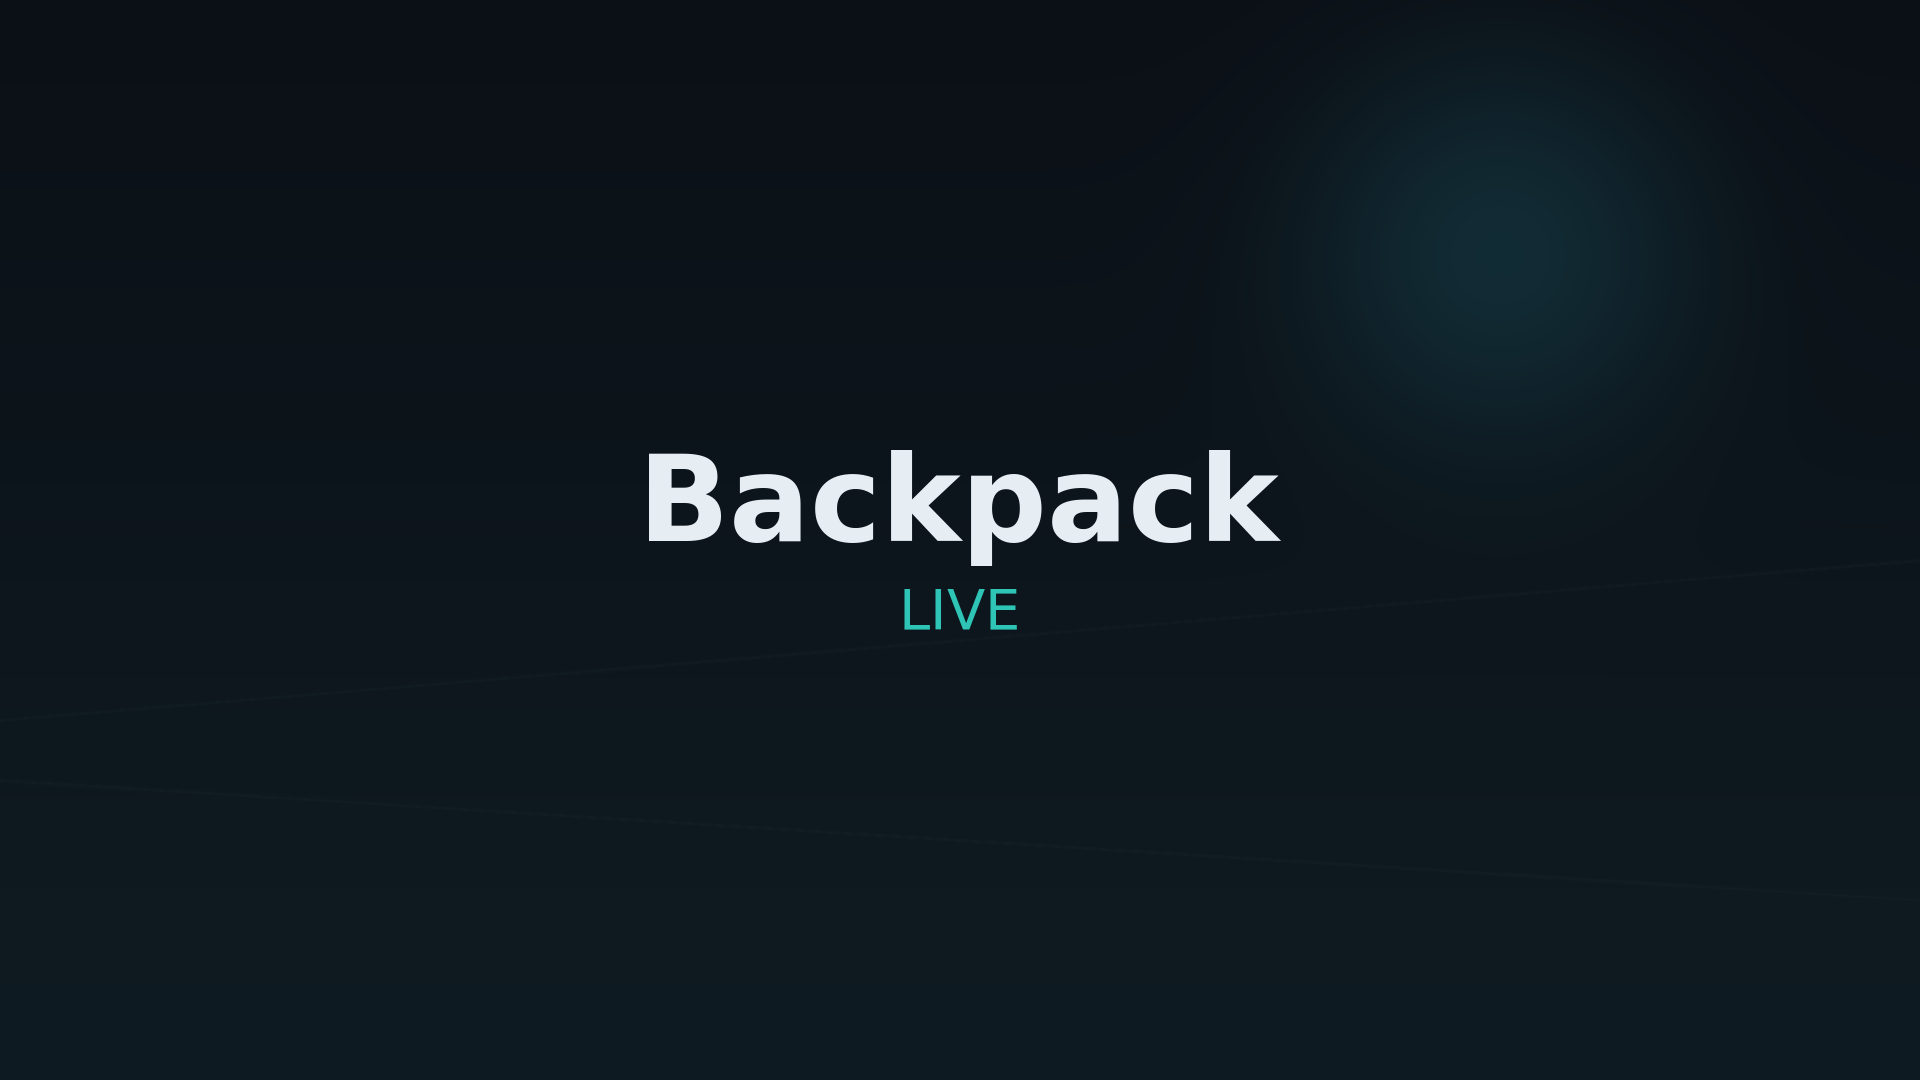
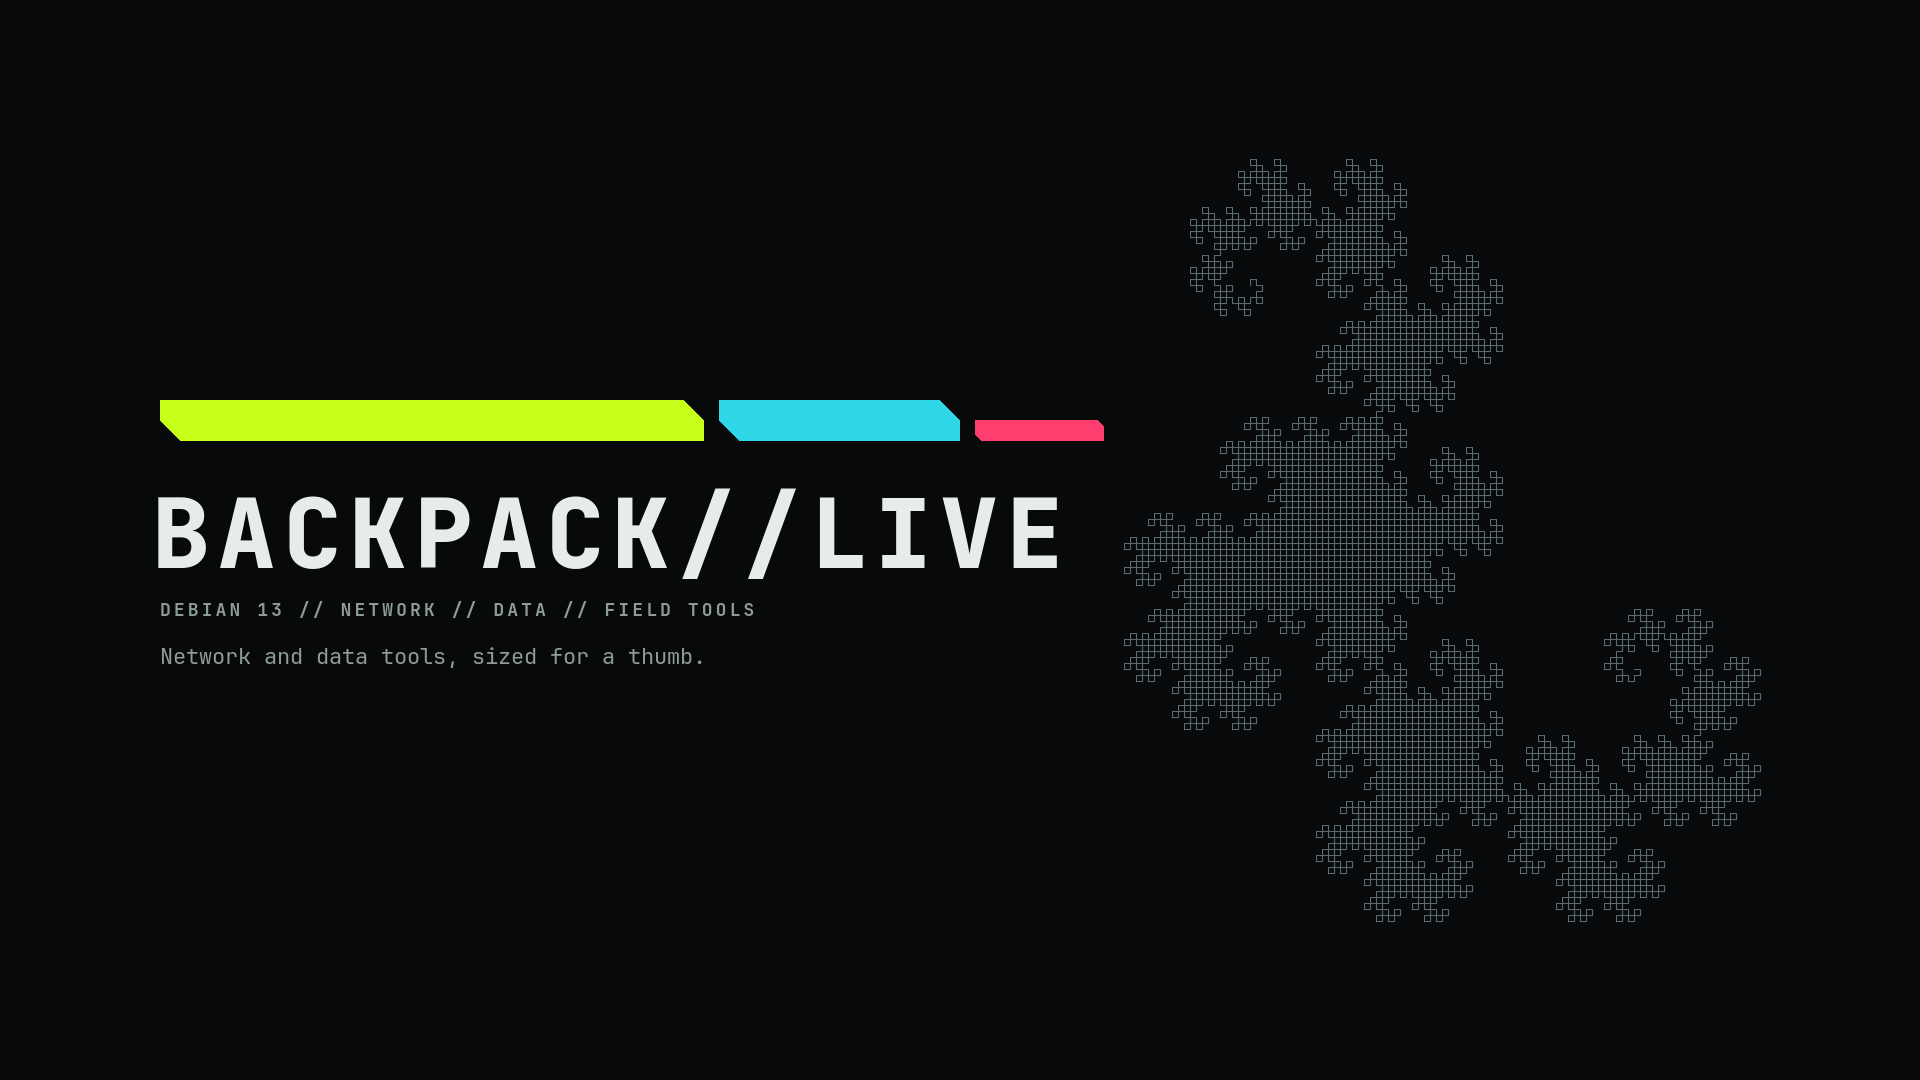
Branding: wallpaper, login background and plymouth splash in the Backpack Field Terminal look
JetBrains Mono wordmark, cover band, dragon-curve fractal; flat void plymouth background with
an acid copy-to-RAM bar. gen-branding.sh now writes into includes.chroot; the unused branding/
outputs are removed.

Claude-Session: https://claude.ai/code/session_01Pj1V7vx3cZ1TwCY66R4qUt

Changed region(s): [[0.0625, 0.0611, 0.9062, 0.8556]]

diff --git a/tools/assets/dragon.py b/tools/assets/dragon.py
@@ -1,0 +1,20 @@
+#!/usr/bin/env python3
+"""Print an ImageMagick MVG polyline of the Heighway dragon curve (the fractal on the
+chapter pages of Jurassic Park, the novel), used as the one decoration in Backpack Field
+Terminal artwork.  usage: dragon.py ITERATIONS STEP X Y  (X Y = top-left of the drawing)"""
+import sys
+
+it, step, ox, oy = (int(a) for a in sys.argv[1:5])
+turns = [1]
+for _ in range(it - 1):
+    turns = turns + [1] + [1 - t for t in reversed(turns)]
+x = y = 0
+dx, dy = 1, 0
+pts = [(0, 0), (1, 0)]
+x = 1
+for t in turns:
+    dx, dy = (-dy, dx) if t else (dy, -dx)
+    x, y = x + dx, y + dy
+    pts.append((x, y))
+mx, my = min(p[0] for p in pts), min(p[1] for p in pts)
+print("polyline " + " ".join(f"{ox + (px - mx) * step},{oy + (py - my) * step}" for px, py in pts))

diff --git a/CLAUDE.md b/CLAUDE.md
@@ -96,8 +96,9 @@ make release
     Hardware tablet taps via the monitor are flaky under nested virt; not a product defect —
     libinput enumerates the touch device under sway, so real touchscreens deliver events.
   * `scripts/qemu-shot.sh NAME` screendumps to build/shots/NAME.png.
-- (phase 5) Branding + splash: assets generated in branding/ by tools/assets/gen-branding.sh (ImageMagick via backpack-edex),
-  staged into includes.chroot (wallpaper -> /usr/share/backgrounds/backpack.png, greeter bg via
+- (phase 5) Branding + splash: tools/assets/gen-branding.sh (ImageMagick + python3, run from the repo root) writes the
+  Backpack Field Terminal wallpaper (JetBrains Mono, dragon curve from tools/assets/dragon.py) and plymouth art straight
+  into includes.chroot (wallpaper -> /usr/share/backgrounds/backpack.png, greeter bg via
   lightdm-gtk-greeter.conf.d, /etc/issue + /etc/motd; the LXQt skel went with Desktop mode). Boot menus branded:
   syslinux stdmenu.cfg colors + splash.png + "Backpack Live" title; GRUB background_image.
   Plymouth theme "backpack" (script module, splash.png) set in hook 0300 + update-initramfs.
